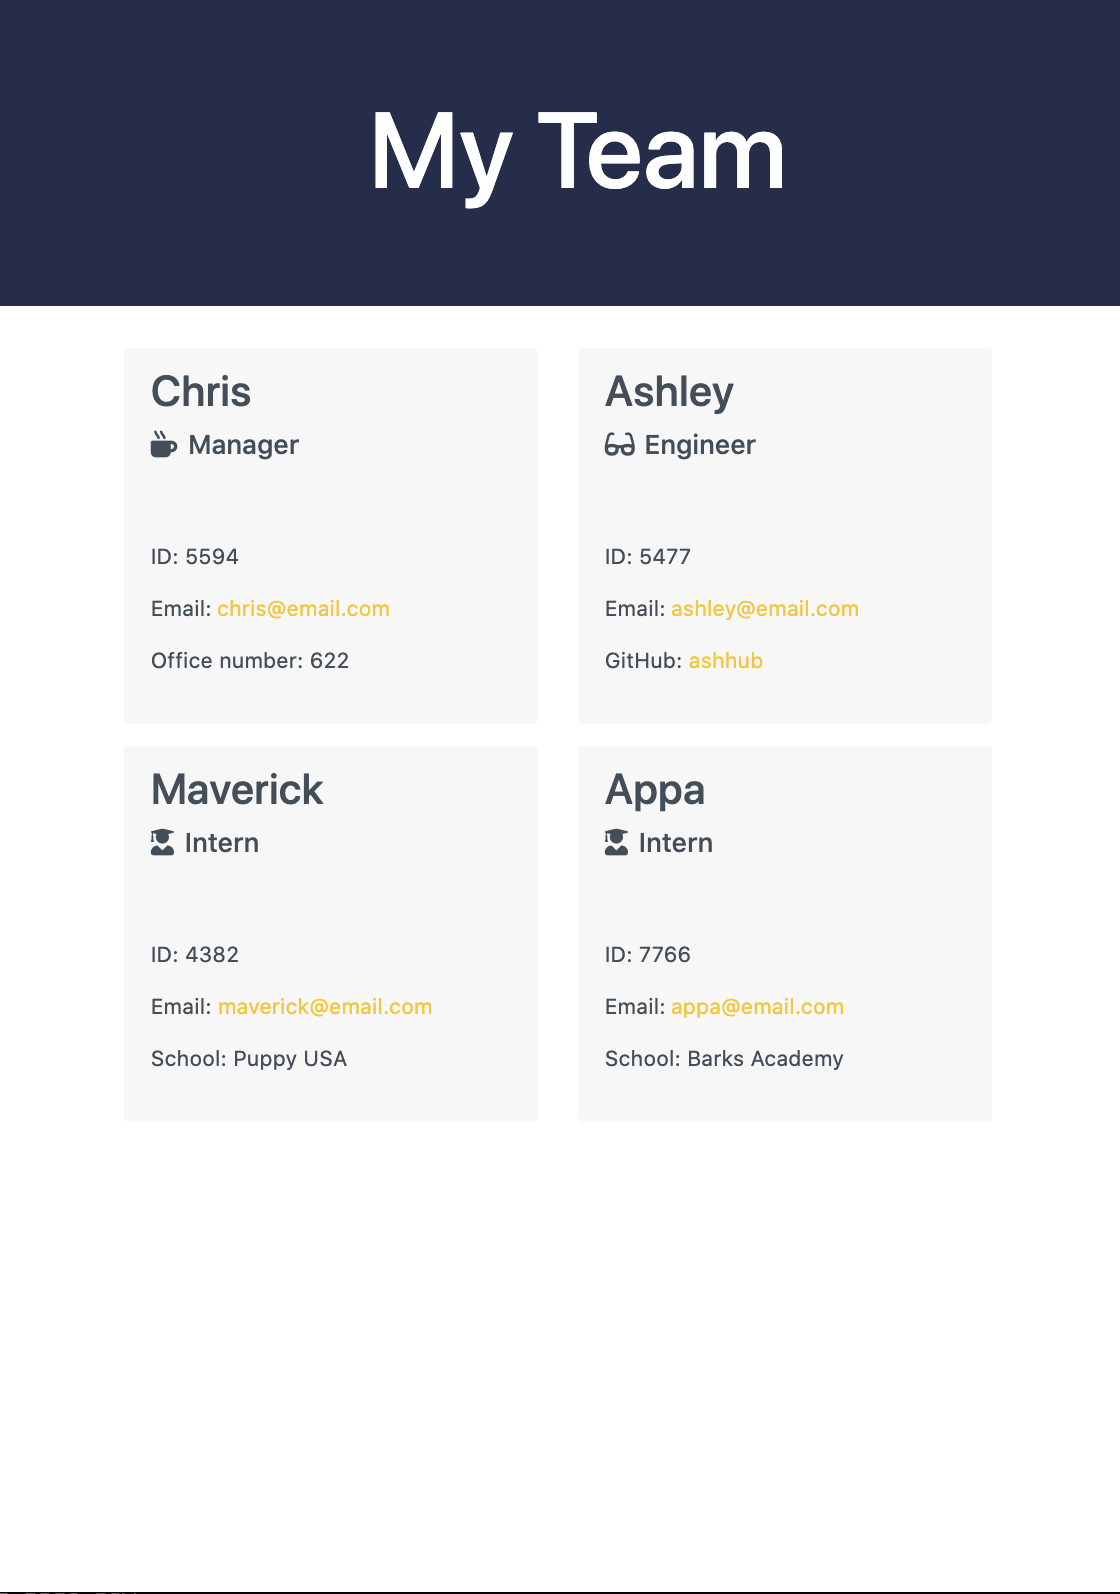
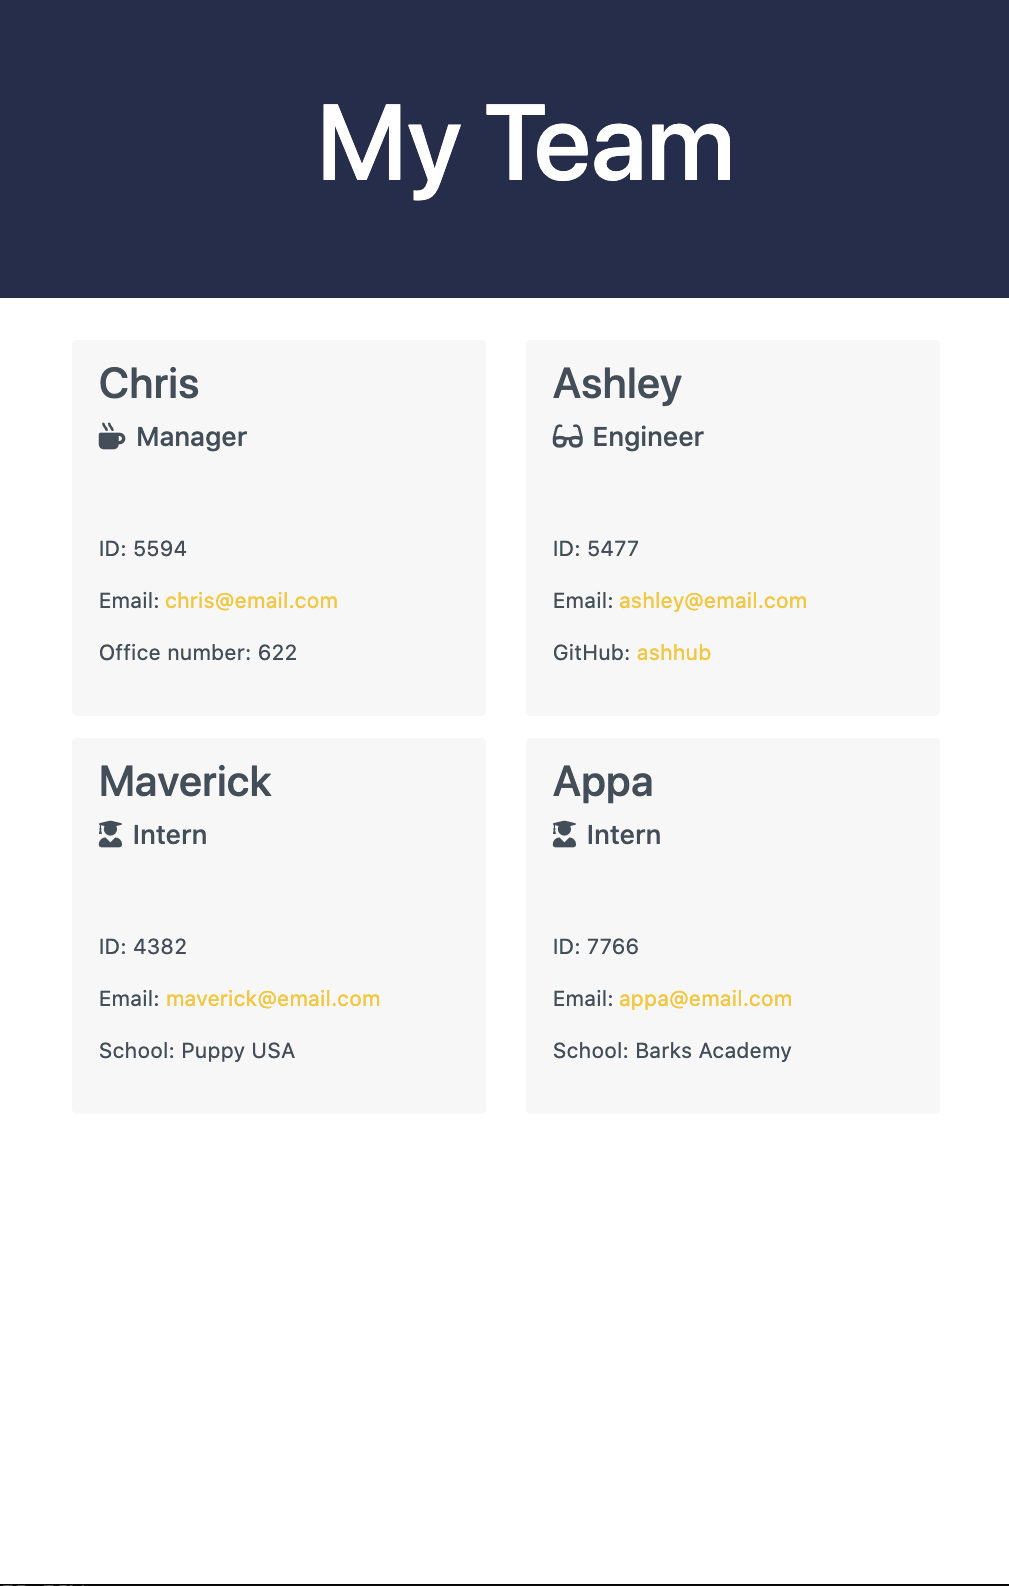
more readme updates to images and code

diff --git a/README.md b/README.md
@@ -14,11 +14,12 @@ One of the main goals was also to write code that is readable and easily maintai
 
 <br>
 
-![Employee Summary Desktop](./assets/desktop_screen-shot.png)
+<img src="./assets/desktop_screen-shots.png" alt="desktop view" width="100%"/>
+
 <br>
 <br>
 
-<img src="./assets/tablet_screen-shot.png" alt="tablet view" width="40%"/> &emsp; <img src="./assets/mobile_screen-shot.png" alt="mobile view" width="40%"/>
+<img src="./assets/tablet_screen-shot.png" alt="tablet view" width="45%"/> &emsp; <img src="./assets/mobile_screen-shot.png" alt="mobile view" width="45%"/>
 
 
 <br>
